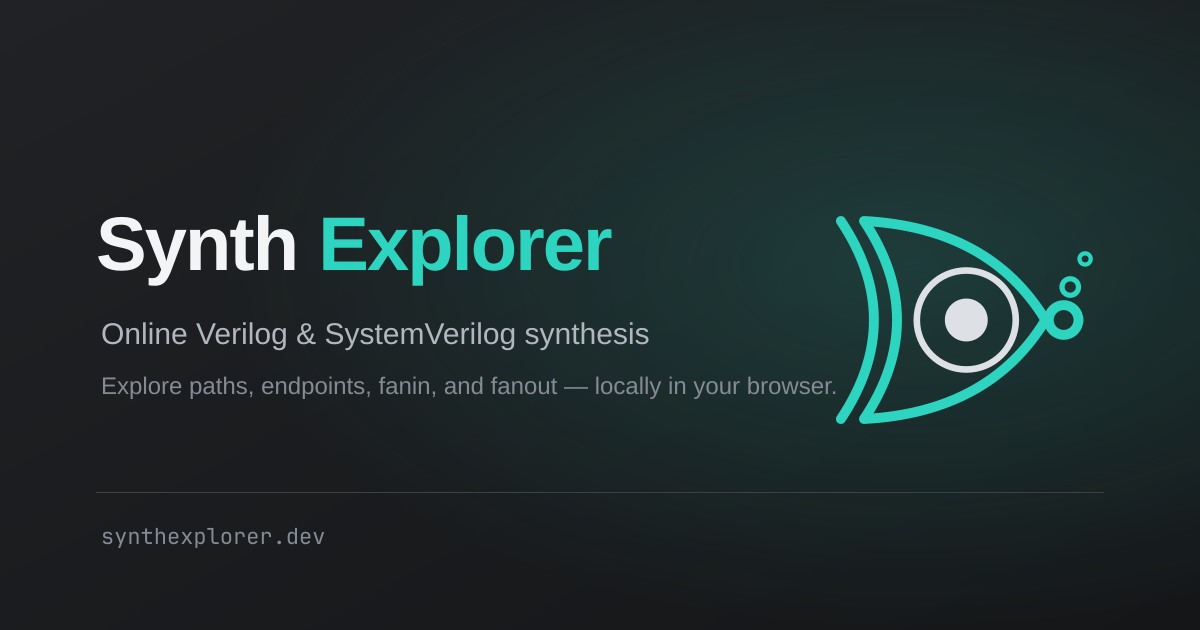
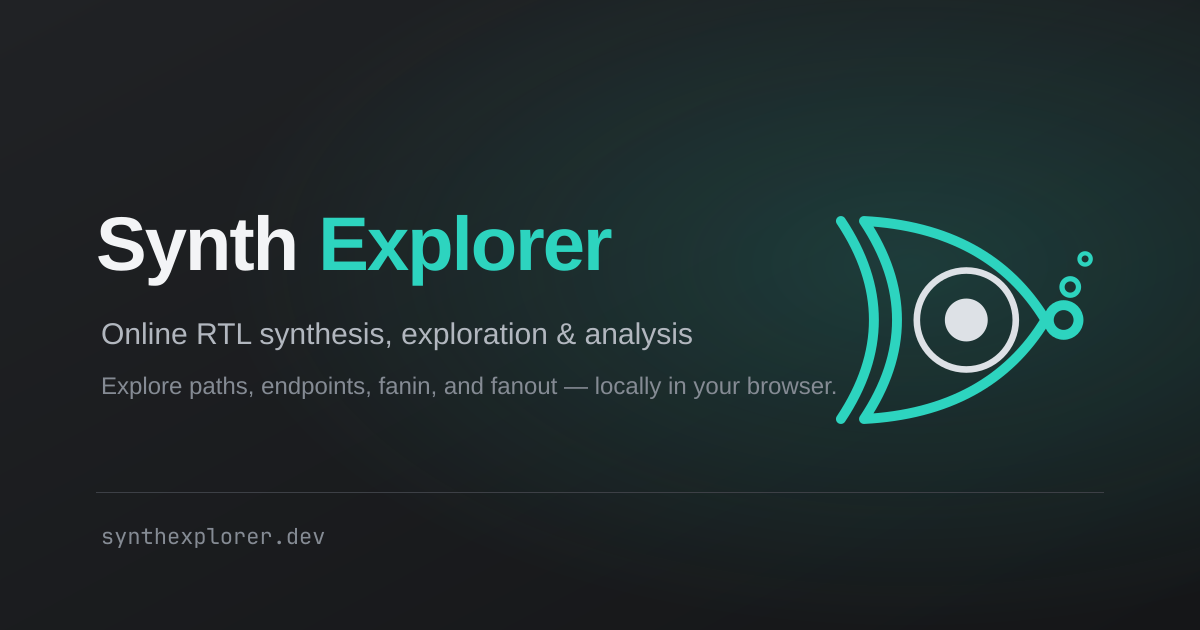
Refine SEO positioning copy

Changed region(s): [[0.1542, 0.5127, 0.5858, 0.573]]

diff --git a/web/index.html b/web/index.html
@@ -4,10 +4,10 @@
     <meta charset="UTF-8" />
     <link rel="icon" type="image/svg+xml" href="/favicon.svg" />
     <meta name="viewport" content="width=device-width, initial-scale=1.0" />
-    <title>Synth Explorer — Online Verilog &amp; SystemVerilog Synthesis</title>
+    <title>Synth Explorer - Online RTL Synthesis Exploration and Analysis</title>
     <meta
       name="description"
-      content="Synthesize Verilog and SystemVerilog with Yosys in your browser. Explore logic paths, endpoints, fanin, fanout, and source locations. Your RTL stays local."
+      content="Synthesize RTL in your browser and explore logic paths, endpoints, fanin, fanout, and source locations. Your RTL stays local."
     />
     <meta name="robots" content="index, follow" />
     <meta name="application-name" content="Synth Explorer" />
@@ -18,11 +18,11 @@
     <meta property="og:site_name" content="Synth Explorer" />
     <meta
       property="og:title"
-      content="Synth Explorer — Online Verilog &amp; SystemVerilog Synthesis"
+      content="Synth Explorer - Online RTL Synthesis Exploration and Analysis"
     />
     <meta
       property="og:description"
-      content="Synthesize RTL with Yosys and explore logic paths, endpoints, fanin, fanout, and source locations—all locally in your browser."
+      content="Synthesize RTL in your browser and explore logic paths, endpoints, fanin, fanout, and source locations. Your RTL stays local."
     />
     <meta property="og:url" content="https://www.synthexplorer.dev/" />
     <meta
@@ -39,11 +39,11 @@
     <meta name="twitter:card" content="summary_large_image" />
     <meta
       name="twitter:title"
-      content="Synth Explorer — Online Verilog &amp; SystemVerilog Synthesis"
+      content="Synth Explorer - Online RTL Synthesis Exploration and Analysis"
     />
     <meta
       name="twitter:description"
-      content="Synthesize RTL with Yosys and explore the resulting circuit locally in your browser."
+      content="Synthesize RTL in your browser and explore logic paths, endpoints, fanin, fanout, and source locations. Your RTL stays local."
     />
     <meta
       name="twitter:image"
@@ -61,7 +61,7 @@
         "name": "Synth Explorer",
         "alternateName": "synthexplorer.dev",
         "url": "https://www.synthexplorer.dev/",
-        "description": "Browser-based Verilog and SystemVerilog synthesis with structural circuit analysis.",
+        "description": "Synthesize RTL in your browser and explore logic paths, endpoints, fanin, fanout, and source locations. Your RTL stays local.",
         "sameAs": "https://github.com/cachanova/synth-explorer"
       }
     </script>

diff --git a/web/e2e/seo.e2e.ts b/web/e2e/seo.e2e.ts
@@ -6,7 +6,7 @@ test('publishes crawlable metadata and semantic product identity', async ({ page
   await page.goto('/')
 
   await expect(page).toHaveTitle(
-    'Synth Explorer — Online Verilog & SystemVerilog Synthesis',
+    'Synth Explorer - Online RTL Synthesis Exploration and Analysis',
   )
   await expect(page.getByRole('heading', { level: 1, name: 'Synth Explorer' })).toBeVisible()
   await expect(
@@ -15,7 +15,7 @@ test('publishes crawlable metadata and semantic product identity', async ({ page
 
   await expect(page.locator('meta[name="description"]')).toHaveAttribute(
     'content',
-    /Synthesize Verilog and SystemVerilog with Yosys/,
+    /Synthesize RTL in your browser and explore logic paths/,
   )
   await expect(page.locator('link[rel="canonical"]')).toHaveAttribute(
     'href',